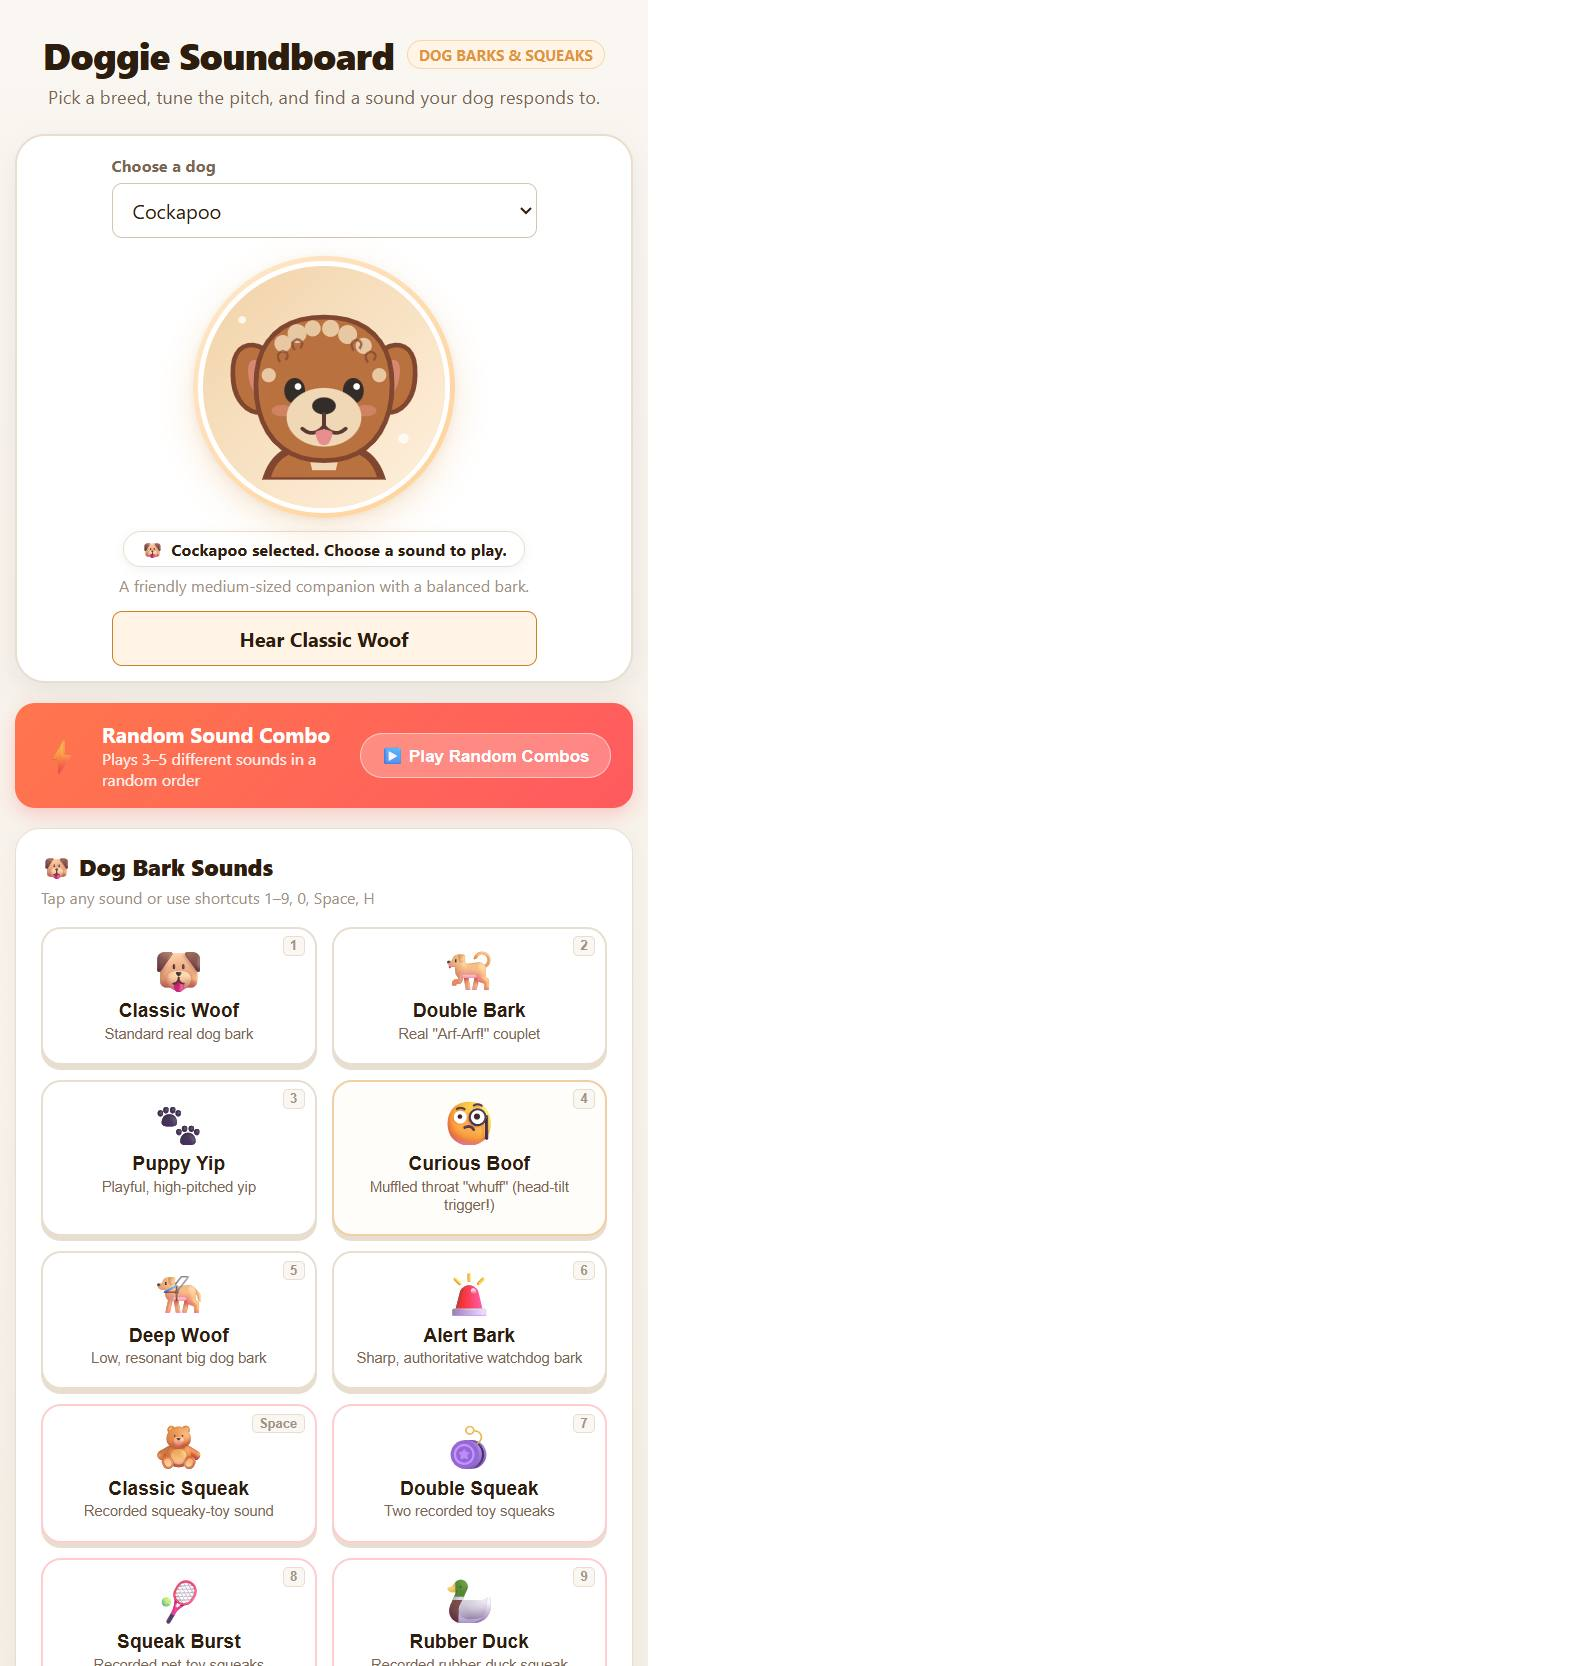
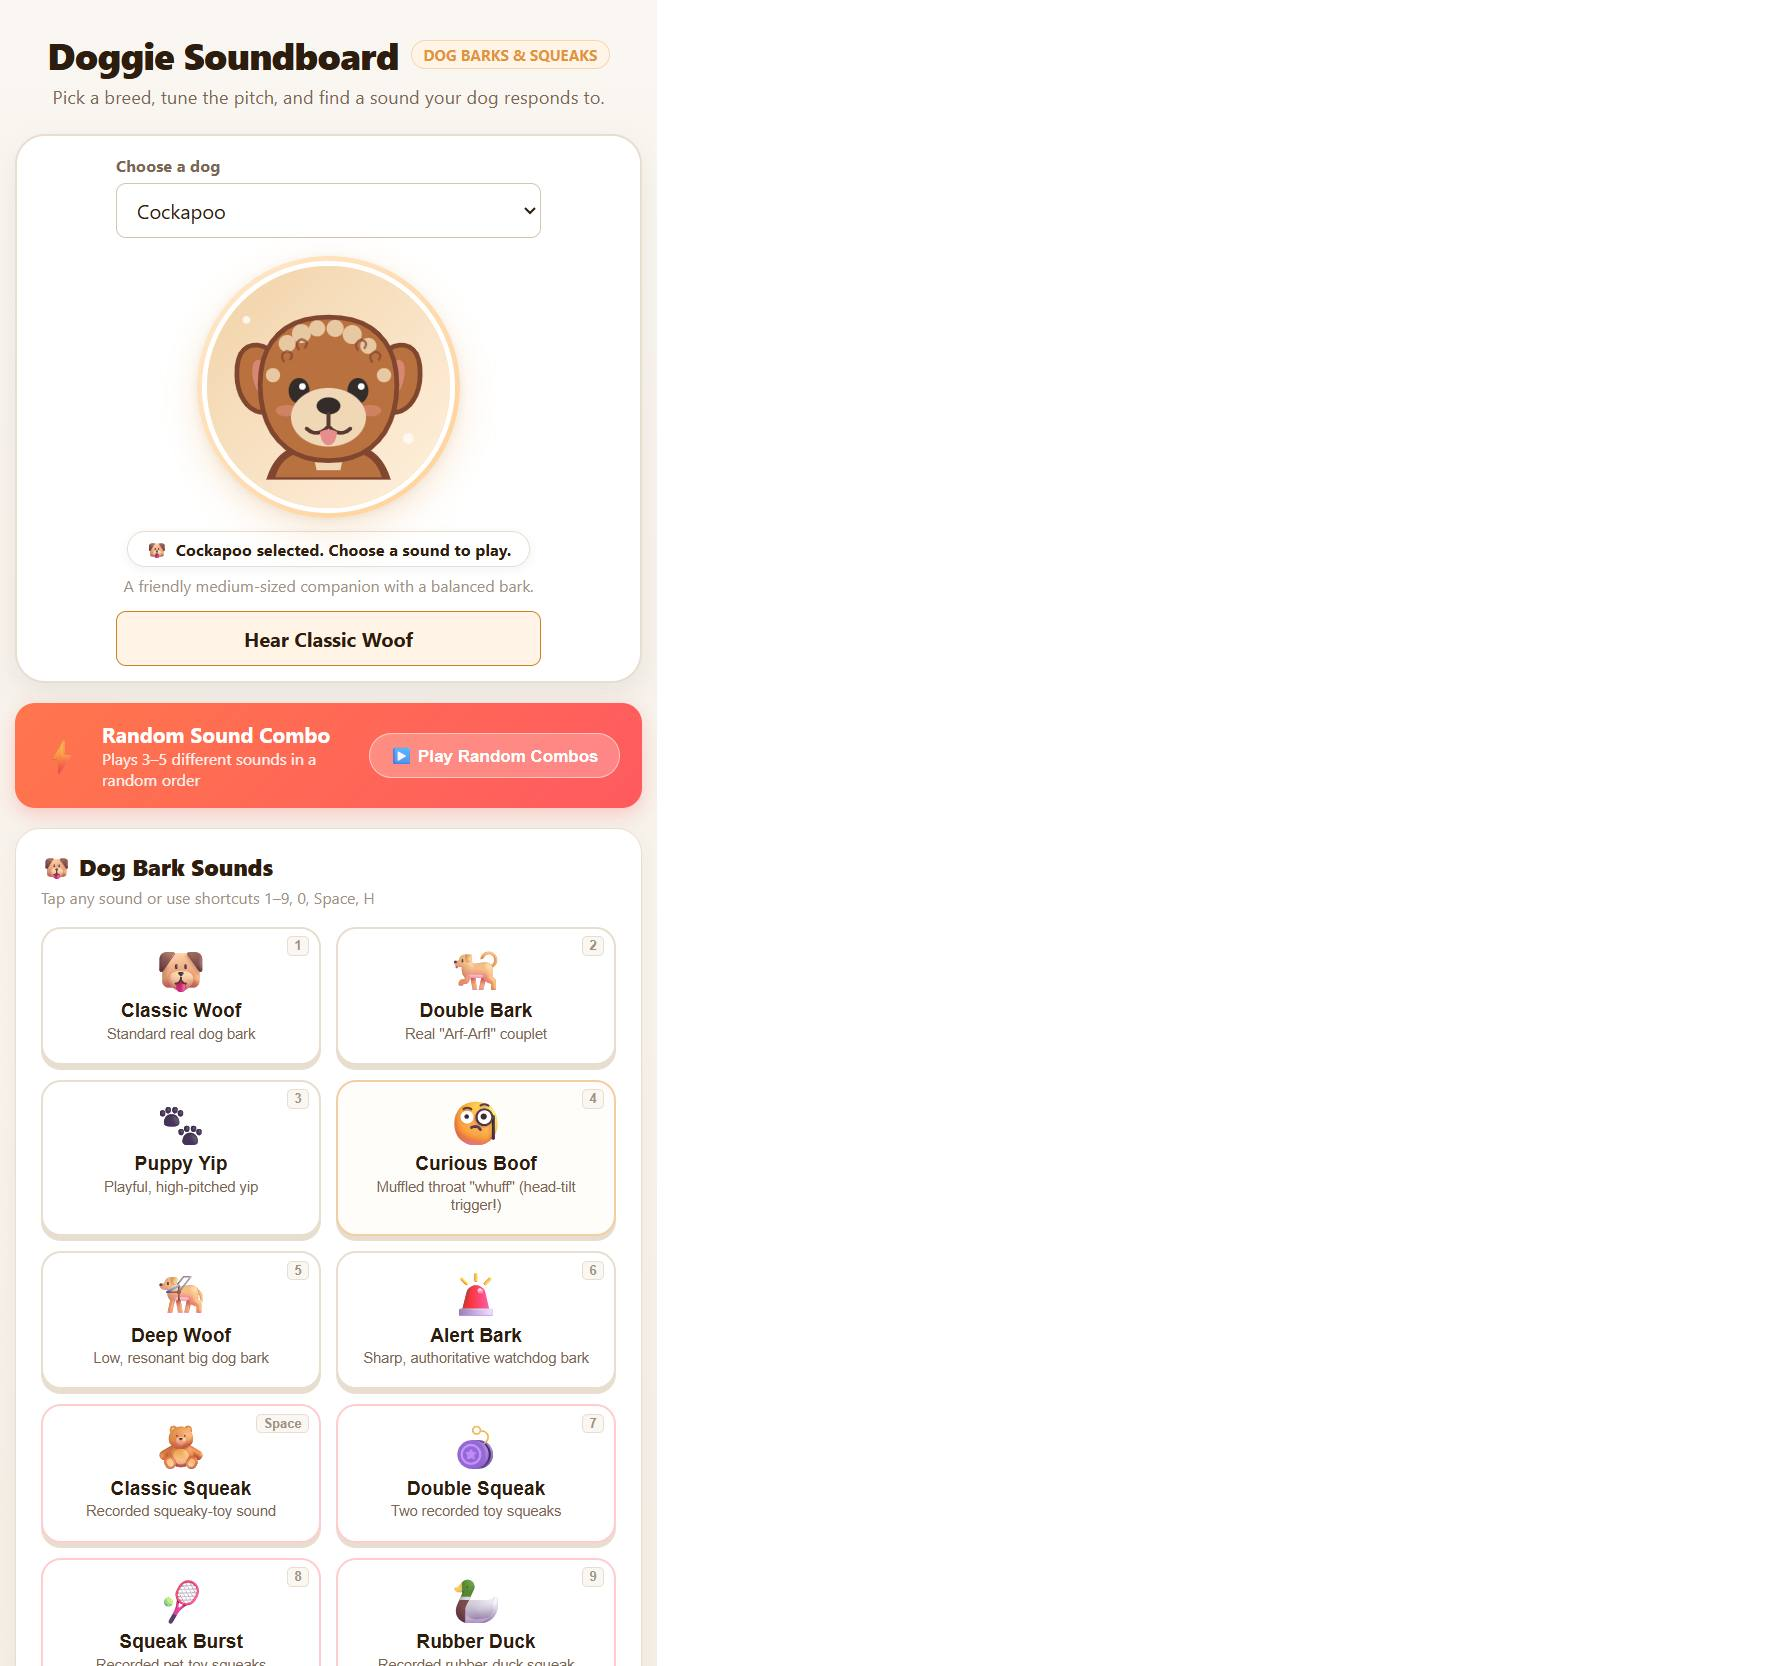
Use desktop README screenshot

diff --git a/README.md b/README.md
@@ -2,7 +2,7 @@
 
 An interactive dog soundboard with breed-selectable portraits, recorded bark samples, and playful squeaky-toy sounds.
 
-![Doggie Soundboard main page](screenshots/doggie-soundboard.jpg)
+![Doggie Soundboard desktop snapshot](screenshots/doggie-soundboard.jpg)
 
 Built with pure HTML5, CSS3, and the **Web Audio API** for responsive procedural sounds and recorded canine audio.
 
